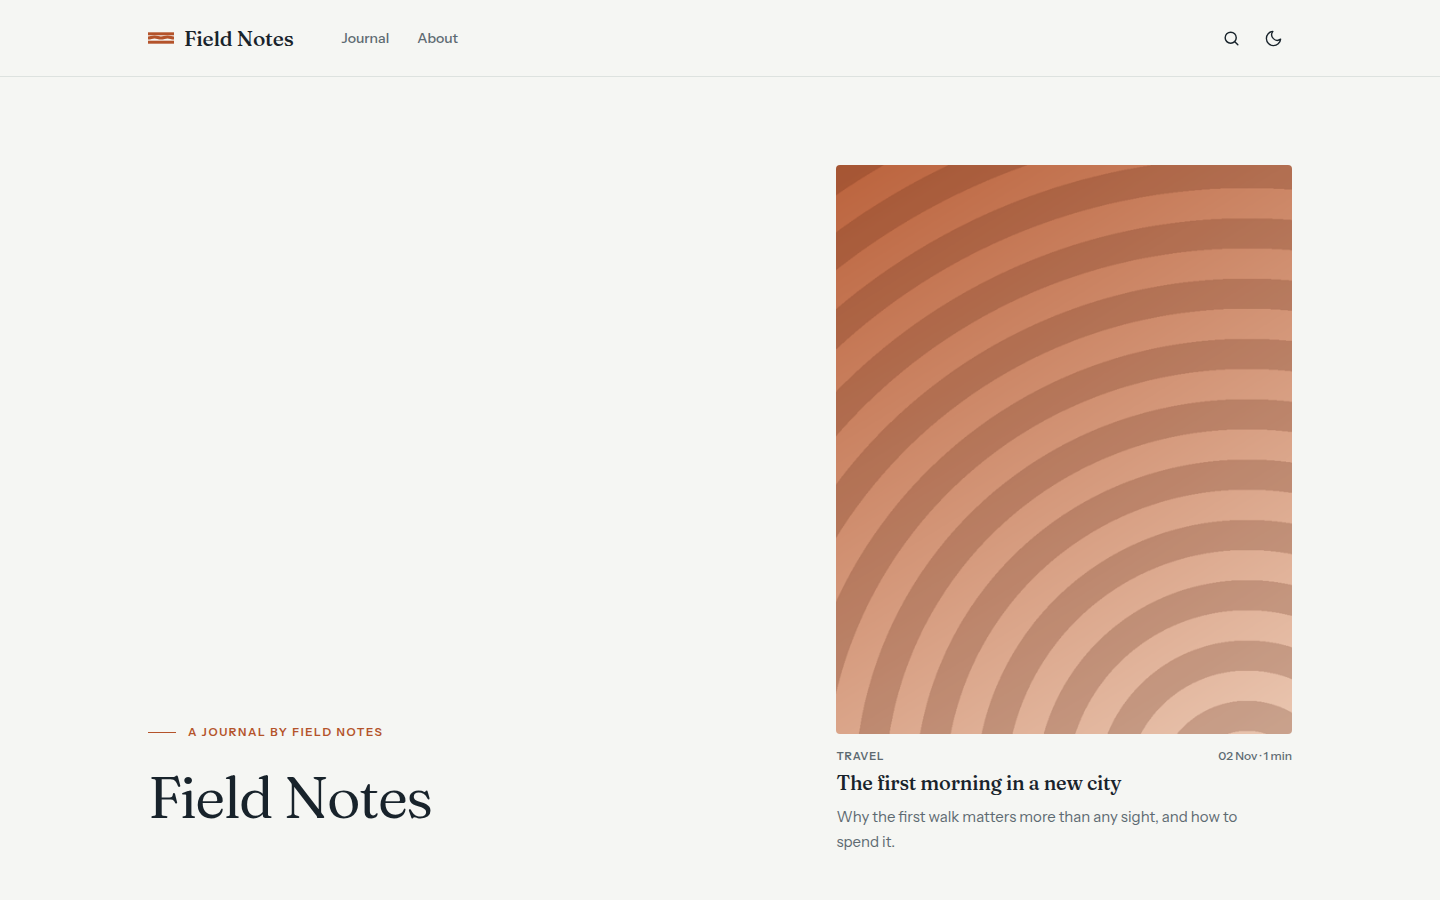
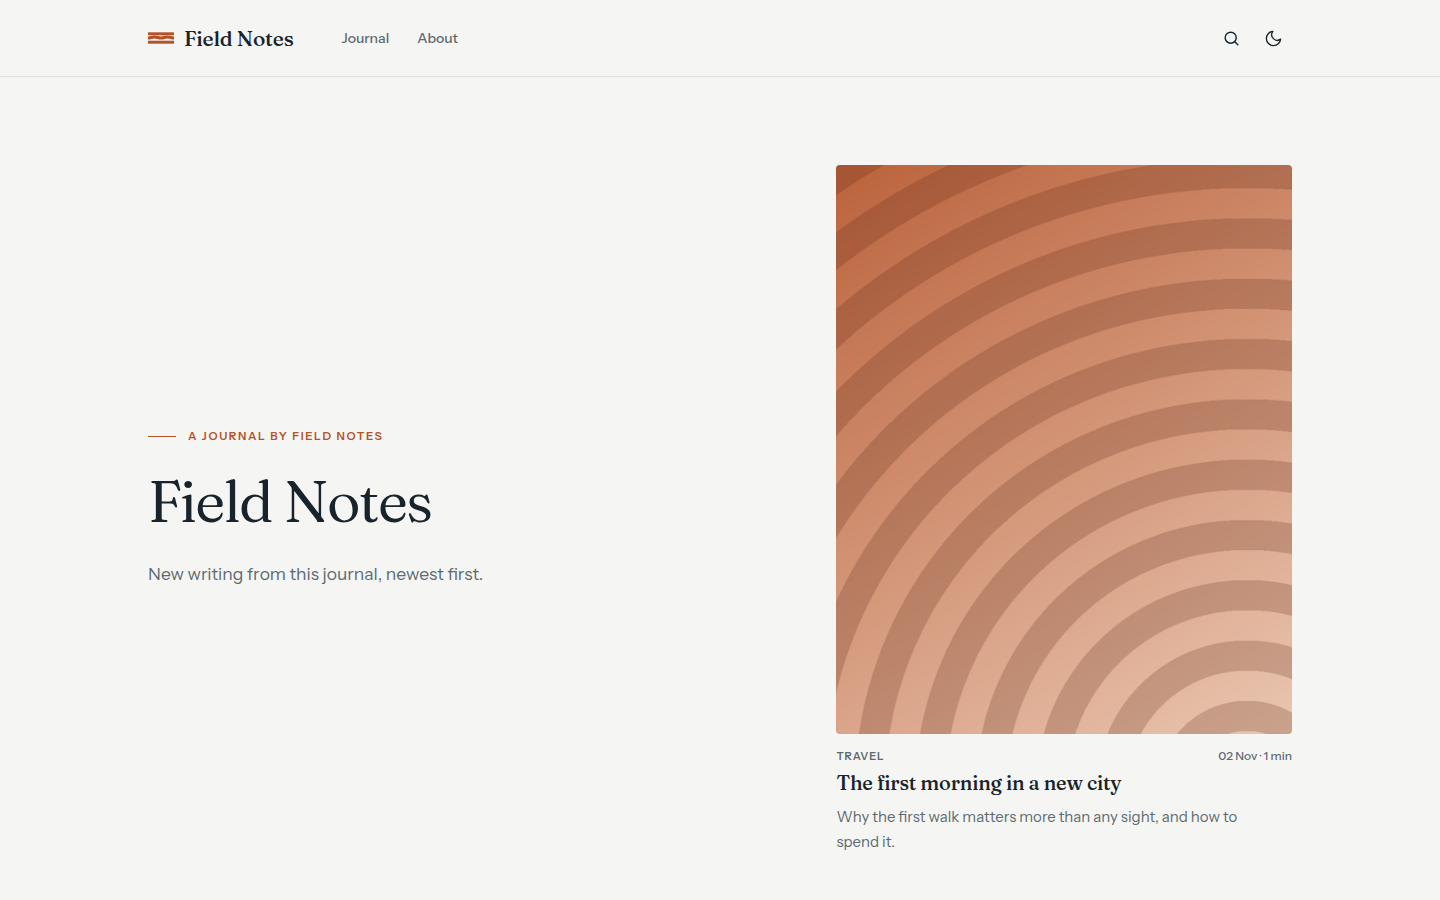
docs(nagi): README, registry screenshot and a complete hero without a tagline

diff --git a/themes/nagi/layouts/home.html b/themes/nagi/layouts/home.html
@@ -5,7 +5,7 @@
 {{$feat := ""}}{{$furl := ""}}{{if .Settings.show_featured}}{{range $r.Items}}{{if and (not $feat) .Image}}{{$feat = .}}{{$furl = .URL}}{{end}}{{end}}{{end}}
 {{$mc := 0}}{{if .Settings.show_mosaic}}{{range $r.Items}}{{if and .Image (ne .URL $furl) (lt $mc 5)}}{{$mc = add $mc 1}}{{end}}{{end}}{{end}}
 {{$ht := default .Site.Tagline .Settings.hero_title}}{{$hi := .Settings.hero_title_italic}}
-{{$lede := default .Site.Tagline .Settings.hero_lede}}
+{{$lede := default .Site.Tagline .Settings.hero_lede}}{{if or (not $lede) (eq $lede $ht)}}{{$lede = "New writing from this journal, newest first."}}{{end}}
 {{$about := .Site.Tagline}}
 {{$further := and .Settings.show_most_read (gt (len $r.Items) 6)}}
 {{$aside := or (and $about (ne $about $lede) (ne $about $ht)) $cats $further}}
@@ -13,7 +13,7 @@
 <div class="ng-hero__main">
 <p class="ng-kicker">{{if .Settings.hero_kicker}}{{.Settings.hero_kicker}}{{else}}A journal by {{$owner}}{{end}}</p>
 <h1 class="ng-hero__title">{{if or $ht $hi}}{{$ht}}{{with $hi}} <i>{{.}}</i>{{end}}{{else}}{{.Site.Name}}{{end}}</h1>
-{{if and $lede (ne $lede $ht)}}<p class="ng-lede">{{$lede}}</p>{{end}}
+{{if $lede}}<p class="ng-lede">{{$lede}}</p>{{end}}
 {{with .Settings.signup_form}}<div class="ng-hero__signup" id="ng-signup">{{template "ng-signup" dict "Root" $ "Id" "hero"}}</div>{{end}}
 </div>
 {{with $feat}}<a class="ng-feat" href="{{.URL}}">

diff --git a/themes/nagi/assets/css/nagi.css b/themes/nagi/assets/css/nagi.css
@@ -138,7 +138,7 @@ h1, h2, h3, h4 { font-family: var(--hm-font-heading); font-weight: 300; }
 .ng-signup button { display: flex; align-items: center; gap: 6px; padding: 8px 0; border: 0; background: none; color: var(--ng-accent); font: 600 14px/1 var(--hm-font); cursor: pointer; }
 
 /* ---- home: hero ---- */
-.ng-hero__grid { display: grid; grid-template-columns: 1.15fr .85fr; gap: 72px; align-items: end; padding-top: 88px; padding-bottom: 80px; }
+.ng-hero__grid { display: grid; grid-template-columns: 1.15fr .85fr; gap: 72px; align-items: center; padding-top: 88px; padding-bottom: 80px; }
 .ng-hero--solo .ng-hero__grid { grid-template-columns: minmax(0, 1fr); padding-bottom: 64px; }
 .ng-hero__main, .ng-feat { min-width: 0; }
 .ng-hero__title { margin: 0 0 28px; font: 360 58px/1.04 var(--hm-font-heading); letter-spacing: -.028em; text-wrap: balance; overflow-wrap: break-word; }

diff --git a/themes/nagi/README.md b/themes/nagi/README.md
@@ -1,6 +1,8 @@
 # Nagi
 
-A calm blog theme with light serif headlines, a featured cover, numbered topics, a picture mosaic and a ledger of posts with large dates. Light and dark.
+A calm blog theme: light serif headlines, a featured cover, numbered topics, a picture mosaic and a ledger of posts with large dates. Light and dark.
+
+Nagi is the calm sea after the wind drops. Quiet, editorial, still.
 
 ![Nagi](assets/screenshot.png)
 
@@ -19,16 +21,47 @@ hatamoto theme activate nagi
 Layouts and sections the theme does not ship come from the built-in theme, so every
 page keeps rendering.
 
+## What it ships
+
+- Home, single post, plain page, archive, category and tag, author, search and 404 layouts.
+- A header with the menu, search, a colour toggle and a Subscribe link; a menu that works without JavaScript on small screens.
+- A deep footer band with a closing sentence, your footer menu, social links and feeds.
+- Light and dark, with the same still-water mark in the logo, under the hero and in the footer.
+- Home blocks that fill themselves from your posts and hide when there is nothing to show: no posts, no images, no categories and no menu all render cleanly.
+
 ## Settings
 
-**Theme > Themes > Nagi > Settings**:
+**Theme > Themes > Nagi > Settings**. Every setting has a default, an empty text means "use the fallback".
 
 | Setting | Default | What it does |
 | --- | --- | --- |
-| Colour mode | `light` | what a first visit shows: `light`, `dark` or `auto` (follows the system); visitors can still switch |
-| Spacing | `comfortable` | `compact` tightens the space between sections |
+| Hero label (`hero_kicker`) | empty | The small line above the headline. Empty shows "A journal by" and the newest post's author, or the site name. |
+| Hero headline (`hero_title`) | empty | The big headline. Empty uses the site tagline, then the site name. |
+| Hero headline, italic half (`hero_title_italic`) | empty | A second half shown after the headline in a muted italic. |
+| Hero text (`hero_lede`) | empty | The paragraph under the headline. Empty uses the site tagline. |
+| Signup form (`signup_form`) | empty | Slug of a form for the email signup. Empty hides the signup and every Subscribe link. See below. |
+| Show the featured post (`show_featured`) | on | The newest post with an image, next to the headline. |
+| Show the topic index (`show_topics`) | on | The four categories with the most posts, with count, newest date and a line from the newest post. |
+| Show the picture mosaic (`show_mosaic`) | on | Up to five more posts with images; needs at least three. |
+| Show Further reading (`show_most_read`) | on | A sidebar list of the posts after the latest ones. It is not based on views. |
+| Footer sentence (`footer_line`) | empty | The sentence in the footer band. Empty uses the site tagline; no tagline means no sentence. |
+| Footer sentence, italic half (`footer_line_italic`) | empty | Shown after the sentence in a muted italic. |
+| Address of the post archive (`archive_url`) | `/blog` | Where "More writing" and "All posts" lead. Set it to the archive address of your posts. |
+| Colour mode (`color_mode`) | `light` | What a first visit shows: `light`, `dark` or `auto` (follows the system). Visitors can still switch with the header toggle. |
 
-Colours, fonts and corners follow **Theme > Colours and fonts**.
+Colours, fonts and corners follow **Theme > Colours and fonts**; the accent colour is your primary colour. In dark mode the accent is lightened for text so it stays readable.
+
+### Signup form
+
+1. Create a form (Forms) with a field named `email`. Other fields are not shown by the theme.
+2. Do not turn on a captcha: the theme prints its own small form and has no place for a captcha widget, so a form with a captcha will always answer with an error.
+3. Put the form's slug in `signup_form`.
+
+The hero then shows an underline email field. It works without JavaScript: the visitor is sent back to the page with a short thank-you (or error) line, and every submission lands in the form's inbox. The Subscribe link in the header and footer jumps to it from any page. If your site already has a call-to-action button in the header, that button is used instead.
+
+## Fonts
+
+[Fraunces](https://github.com/undercasetype/Fraunces) and [Instrument Sans](https://github.com/Instrument/instrument-sans) are bundled in `assets/fonts/` under the SIL Open Font License 1.1 (licence files next to the fonts). Nothing loads from another host.
 
 ## Develop
 
@@ -36,11 +69,11 @@ From the root of the `hatamoto-themes` repository:
 
 ```sh
 scripts/dev-site.sh blog themes/nagi --serve   # a seeded local site with this theme, live reload
-scripts/check.sh themes/nagi                            # the full check: package, render, browser, screenshot
+scripts/check.sh themes/nagi --screenshot      # the full check; also writes assets/screenshot.png
 ```
 
 `dev/` is not part of the package.
 
 ## License
 
-Apache-2.0, see [LICENSE](LICENSE).
+Apache-2.0, see [LICENSE](LICENSE). The fonts keep their own licence (OFL-1.1).
